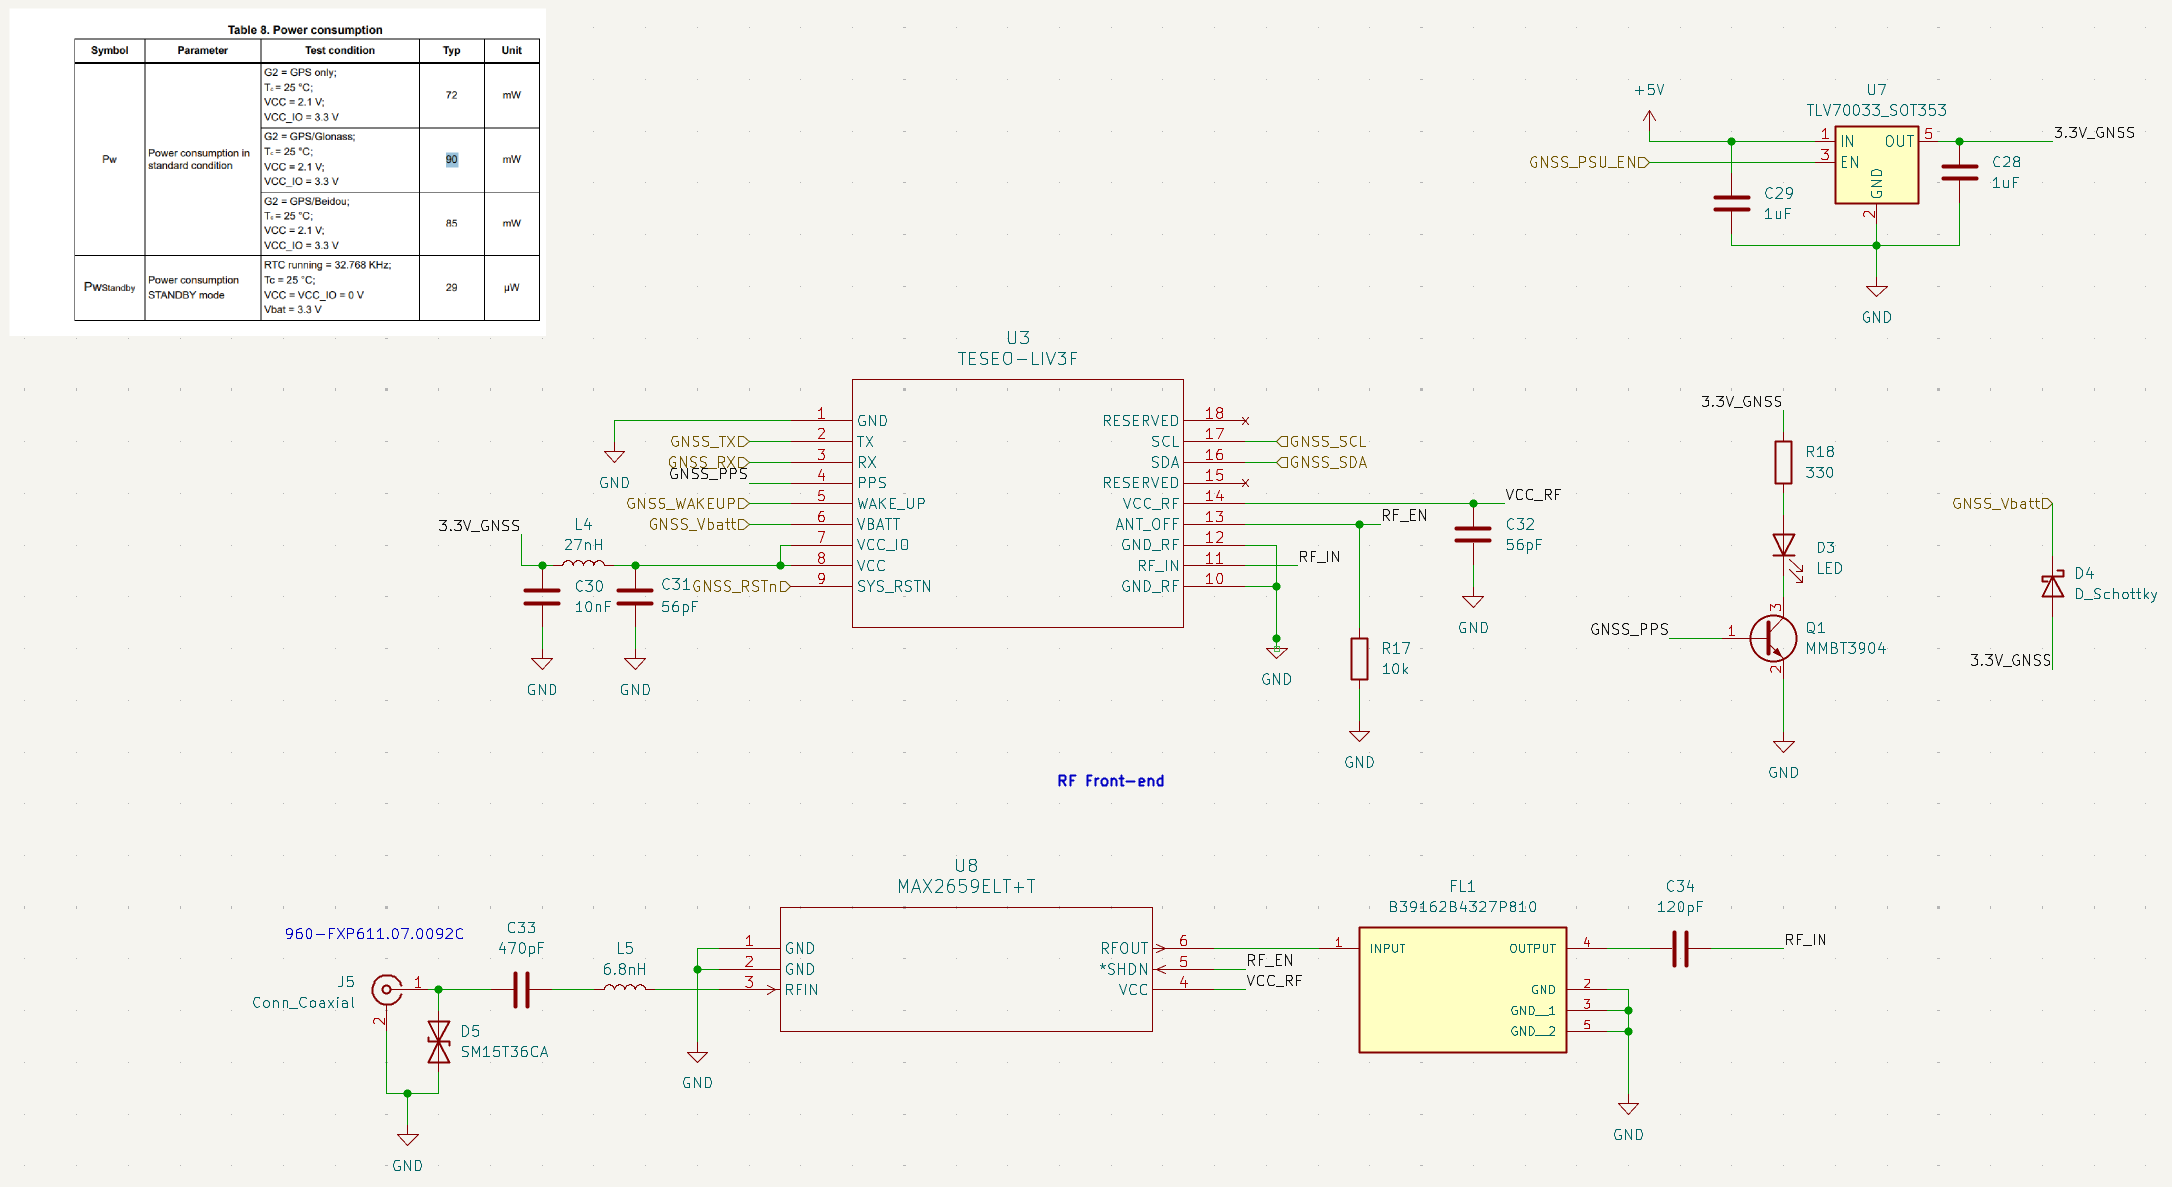
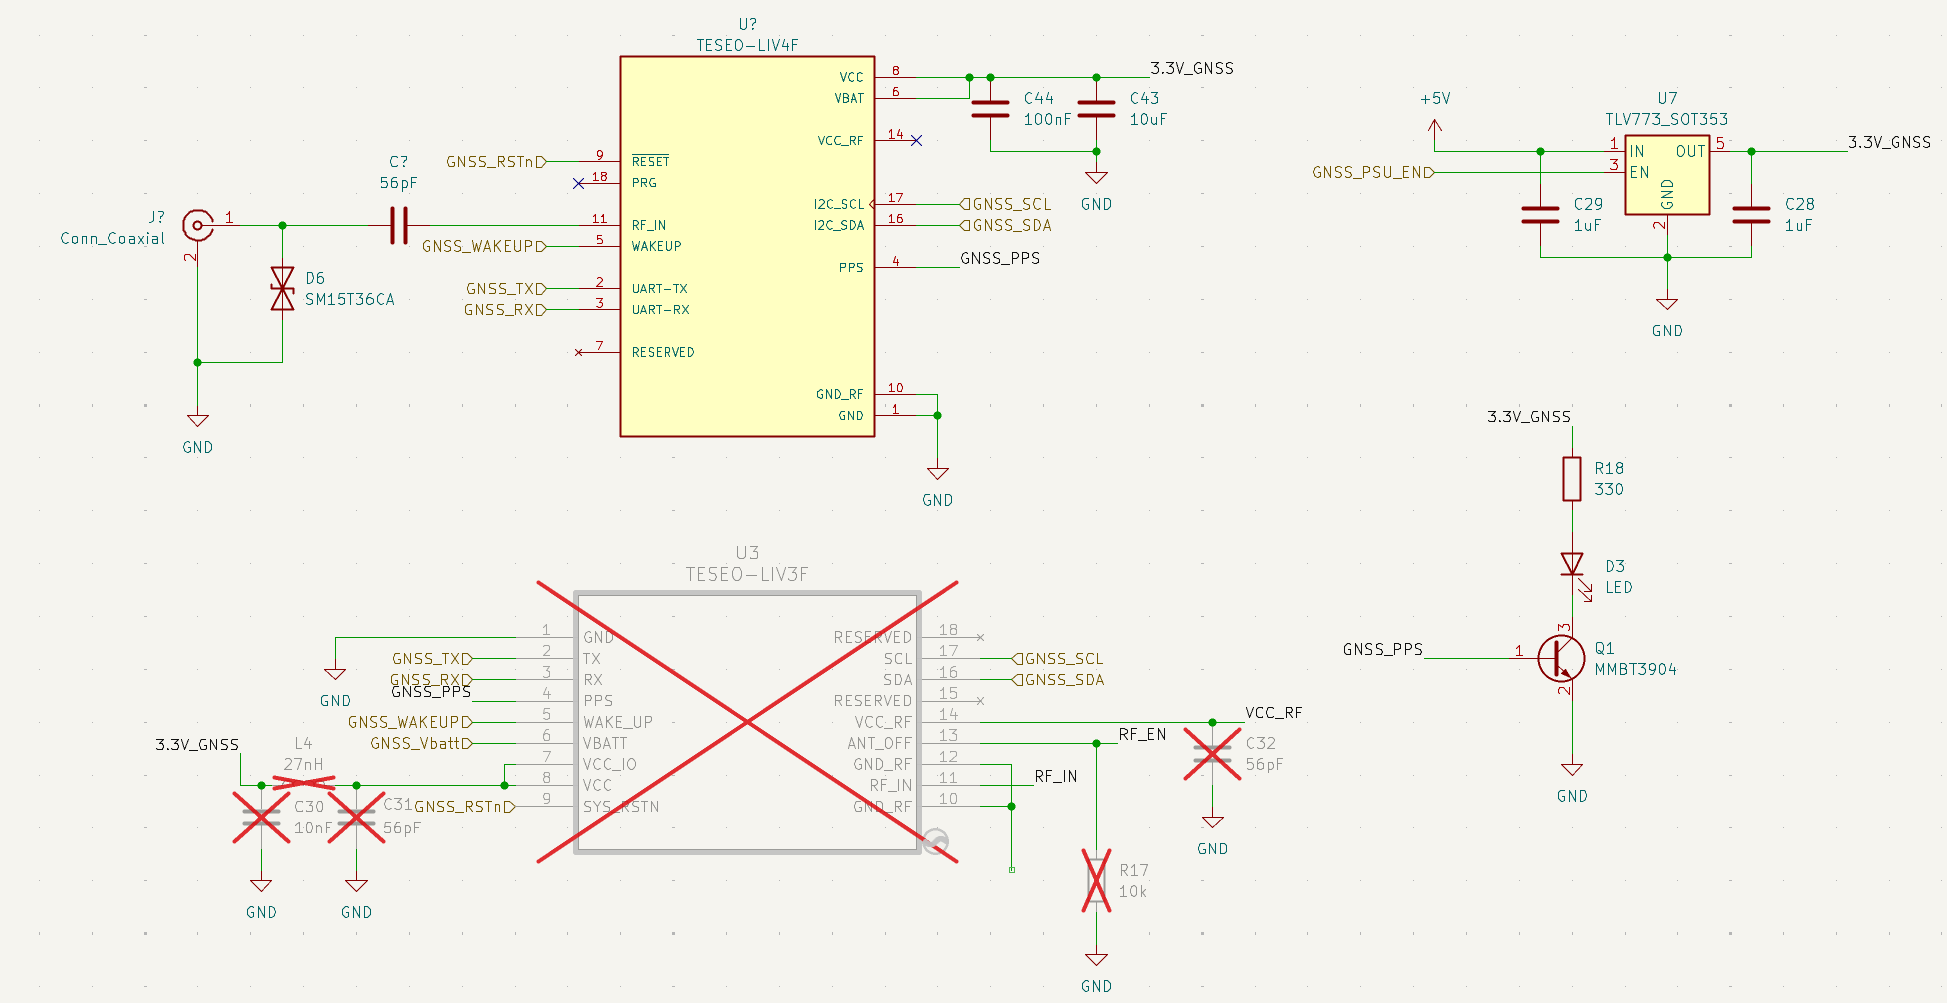
up

diff --git a/_posts/2023-06-10-idea.md b/_posts/2023-06-10-idea.md
@@ -94,11 +94,12 @@ For a bike-computer, this prolly don't make sense at all. Literally designing a 
 It's small and affordable GNSS module. At first I was planning to use an all-in-one module (built-in antenna). 
 Problem is, the signal might be horrible due to casing. External passive antenna like Taoglas FXP611.07.0092C, can be move to face the sky directly and since it is passive, does not consume much battery. Circuitry mainly based on Digikey own GNSS module breakout design and LIV3F hardware manual. Hope the PCB design track is not much of a hassle to design.
 
-<p>
-    <img src="https://syauqi-alias.github.io/assets/kb01/yeet.gif" alt="nvme buck sch"/>
-</p> 
+**Update: 11/02/26**
+<div style="display: flex; justify-content: center;">
+    <img src="https://syauqi-alias.github.io/assets/kb01/yeet.gif" alt="yeet"/>
+</div>
 
-**Update:** Decided to yeet out LIV3F for LIV4F, same footprint but with multichannel GNSS, this will be more accurate reading (under 1m accuracy). And I dont need to worry about the front-end analog, built in LNA and SAW filter. 
+ Decided to yeet out LIV3F for LIV4F, same footprint but with multichannel (L1 and L5) GNSS, this will give more accurate reading (under 1m accuracy). And I don't need to worry about the front-end analog, built-in LNA and SAW filter. 
 
 <p>
     <img src="https://syauqi-alias.github.io/assets/kb01/gnss.png" alt="nvme buck sch"/>
